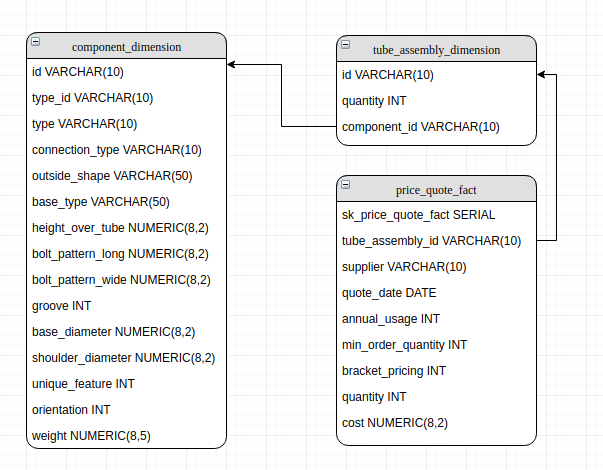
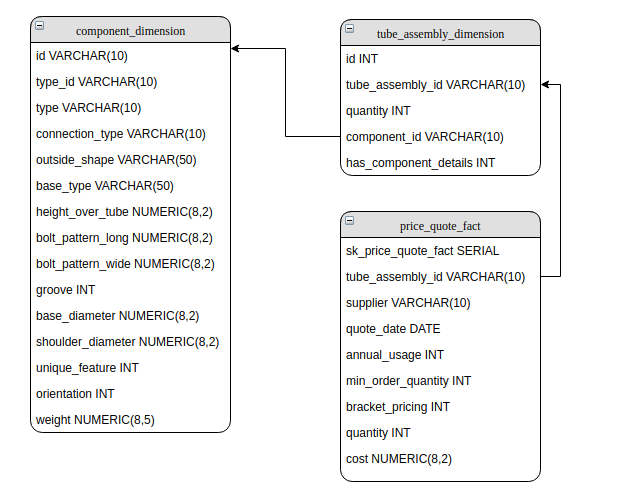
Docker | doc | fixes

Changed region(s): [[0.4478, 0.0298, 0.9254, 0.983], [0.0299, 0.0298, 0.4478, 0.9532], [0.3582, 0.9234, 0.3881, 0.9532]]

diff --git a/dw/dimension/assembly.py b/dw/dimension/assembly.py
@@ -2,10 +2,17 @@ import pandas as pd
 import os
 from definitions import ROOT_DIR
 from util.db_connection import PostgresClient
+from util.df_functions import merge_from_db
 from util.run_functions import run_to_debug
 
 
 class TubeAssembly:
+	"""
+		Reads a csv file with tube assembly info and loads to a postgres.
+		- Converts all the non NA columns into rows, making it easier to summarize the components used;
+		- Aggregates Assembly + Component to avoid duplicate rows;
+		- Checks if it exists in component_dimension (has_component_details).
+	"""
 
 	def __init__(self, source_file="bill_of_materials.csv"):
 		self.source_file = source_file
@@ -24,12 +31,14 @@ class TubeAssembly:
 			drop("order", axis=1)  # type: pd.DataFrame
 
 		df = df.dropna(subset=["component_id"])
+		df = df.groupby(['tube_assembly_id', 'component_id'])["quantity"].sum().reset_index()
 
-		df.rename(
-			columns={
-				"tube_assembly_id": "id"
-			}, inplace=True
-		)
+		df = merge_from_db(
+			df=df, schema="industry", table_name="component_dimension", column="id", left_on="component_id",
+			right_on="id", indicator=True, drop_columns="id")
+
+		df.rename(columns={"_merge": "has_component_details"}, inplace=True)
+		df["has_component_details"] = df["has_component_details"].apply(func=lambda value: 1 if value == "both" else 0)
 
 		df.to_sql(
 			schema="industry", name="tube_assembly_dimension", con=PostgresClient.get_conn_engine(),

diff --git a/main.py b/main.py
@@ -1,16 +1,32 @@
-import os
+import logging
 
 from dw.dimension.assembly import TubeAssembly
 from dw.dimension.component import Component
 from dw.fact.annual_cost import AnnualCost
 from dw.fact.price_quote import PriceQuote
+from util.db_connection import PostgresClient
 
-os.environ["USER"] = "industry_user"
-os.environ["PWD"] = "password"
-os.environ["HOST"] = "localhost"
-os.environ["PORT"] = "5432"
-os.environ["DB"] = "industry_price_quote"
+logger = logging.getLogger()
+logger.setLevel(logging.INFO)
+
+logging.info("Connection to database...")
+conn = PostgresClient.get_conn_engine().connect()
+logging.info("Cleaning tables...")
+conn.execute("TRUNCATE TABLE industry.component_dimension;")
+conn.execute("TRUNCATE TABLE industry.tube_assembly_dimension;")
+conn.execute("TRUNCATE TABLE industry.price_quote_fact;")
+conn.execute("TRUNCATE TABLE industry.annual_cost_fact;")
+
+logging.info("Loading components...")
 Component().run()
+logging.info("ok!")
+logging.info("Loading tube assembly...")
 TubeAssembly().run()
+logging.info("ok!")
+logging.info("Loading price quotes...")
 PriceQuote().run()
+logging.info("ok!")
+logging.info("Loading annual cost...")
 AnnualCost().run()
+logging.info("ok!")
+logging.info("PROCESS FINISHED!")

diff --git a/dw/dimension/component.py b/dw/dimension/component.py
@@ -4,9 +4,14 @@ from definitions import ROOT_DIR
 from util.db_connection import PostgresClient
 from util.df_functions import df_bool_to_int, transform_str_columns, transform_float_columns
 from util.run_functions import run_to_debug
+import numpy as np
 
 
 class Component:
+	"""
+		Reads a csv file with component info and loads to a postgres.
+		Just some type convertions are applied to the original data.
+	"""
 
 	def __init__(self, source_file="comp_boss.csv"):
 		self.source_file = source_file
@@ -20,6 +25,7 @@ class Component:
 			}, inplace=True
 		)
 
+		df["connection_type_id"] = df["connection_type_id"].replace(to_replace="9999", value=np.nan)
 		df = transform_str_columns(df, upper=True, fillna_value="N/A")
 		df = transform_float_columns(df, fillna_value=0)
 		df = df_bool_to_int(df, ["groove", "unique_feature", "orientation"])

diff --git a/util/df_functions.py b/util/df_functions.py
@@ -50,10 +50,10 @@ def clean_str_values(
 	return df
 
 
-def merge_from_db(df, schema, table_name, column, left_on, right_on, drop_columns=None):
+def merge_from_db(df: pd.DataFrame, schema, table_name, column, left_on, right_on, drop_columns=None, indicator=False):
 	component_df = pd.read_sql(
 		sql="SELECT {columns} FROM {schema}.{table_name}".format(
-			columns=column + "," + right_on,
+			columns=",".join(set([column] + [right_on])),
 			schema=schema,
 			table_name=table_name
 		),
@@ -67,7 +67,8 @@ def merge_from_db(df, schema, table_name, column, left_on, right_on, drop_column
 		how="left",
 		left_on=left_on,
 		right_on=right_on,
-		validate="many_to_one"
+		suffixes=('', '_y'),
+		indicator=indicator
 	)
 
 	if old_size != len(df):

diff --git a/dw/fact/annual_cost.py b/dw/fact/annual_cost.py
@@ -7,6 +7,11 @@ from util.run_functions import run_to_debug
 
 
 class AnnualCost:
+	"""
+		Sample of a different fact table.
+		Reads a csv file with the price quotes info and loads to a postgres, calculating the ammount to buy and
+		the cost based on annual usage.
+	"""
 
 	def __init__(self, source_file="price_quote.csv"):
 		self.source_file = source_file

diff --git a/dw/fact/price_quote.py b/dw/fact/price_quote.py
@@ -7,6 +7,10 @@ from util.run_functions import run_to_debug
 
 
 class PriceQuote:
+	"""
+		Reads a csv file with the price quotes info and loads to a postgres.
+		Just some type convertions are applied to the original data.
+	"""
 
 	def __init__(self, source_file="price_quote.csv"):
 		self.source_file = source_file

diff --git a/README.ptbr.md b/README.ptbr.md
@@ -1,29 +1,52 @@
-## Industry Price Quote Model
+## Modelo de preços de indústria
 
-Esse projeto carrega dados csv para uma base postgres limpando e organizando os dados.
+Esse projeto limpa e carrega alguns arquivos texto (csv) para um banco de dados postgres.
 
-*Leia em outros idiomas: [Inglês](README.md), [Português do Brasil](README.ptbr.md)
+*Leia em outros idiomas: [Inglês](README.md).*
 
-### Instalação (somente para dev):
+### Instalação (somente para desenvolvimento):
 
-1) Crie um virtualenv com python 3.5;
-1) Adicione os arquivos .csv no diretório 'data'
-1) Instale os requerimentos:
+1) Crie uma virtualenv com python 3.5;
+1) Adicione os arquivos .csv na pasta 'data';
+1) Instale o arquivo de requerimentos: \
+_Importante: Execute os comandos a seguir dentro do diretório do projeto !_
 ```
 pip install -r requirements.txt
 ```
 
 ### Executando:
-
-1) Inicie o banco postgres de amostra em docker:
+ 
+1) Inicie um banco postgres com docker e todas as tabelas já criadas (em branco);
+1) Inicie o processo python (não esqueça de checar se os arquivos csv estão na pasta correta) \
+_Importante: Execute os comandos a seguir dentro do diretório do projeto !_
 ```
 make dev-up
+make run
 ```
 
-### Diretórios do projeto
+### Árvores de diretórios do projeto:
 
-- data: Contém os arquivos .csv de origem;
-- db: Contém o modelo do banco de dados postgres;
-- dw/: ETL para as tabelas do data warehouse
+- data/: Arquivos csv de origem;
+- db/: Modelo do banco de dados e configuração de docker para ele;
+- dw/: ETL para as tabelas do data warehouse;
 - util/: Outras funções;
 
+### Modelo do BD:
+
+- component_dimension: 
+	- Contém todos os dados de comp_boss.csv. Todas as colunas boolean for convertidas para 1 ou 0;
+	- Todos os valores N/A foram padronizados;
+	- Todas as string ficaram com letras maiúsculas;
+- tube_assembly_dimension:
+	- Contém os dados de bill_of_materials;
+	- Colunas foram 'tombadas' (unpivot) para remover valores nulos e simplificar futuras agregações;
+- price_quote:
+	- Contém dados de price quote;
+	- Tem uma outra tabela chamada 'annual_cost' que aplica os cálculos de custo anual.
+	
+### To do / A Fazer:
+Essa seção contém possíveis melhorias para esse projeto:
+- Adicionar um framework para controlar o fluxo (e.g: luigi, apache airflow);
+- Criar testes de unidade e de integração;
+- Criar scripts de CD (entrega contínua) para construir e implantar a imagem docker no docker hub;
+- Automatizar deploy em caso de múltiplas execuções.

diff --git a/README.md b/README.md
@@ -3,22 +3,26 @@
 This project cleans and loads a couple of text (csv) 
 files to a postgres database.
 
-*Read this in other languages: [English](README.md), [Portuguese Brazil](README.ptbr.md)
+*Read this in other languages: [Brazilian Portuguese](README.ptbr.md).*
 
 ### Installation (dev only):
 
 1) Create a virtualenv with python 3.5;
 1) Add the .csv files to the 'data' directory;
 1) Install requirements:
+_Important: Run the following on the project directory!_
 ```
 pip install -r requirements.txt
 ```
 
 ### Executing:
-
-1) Start the sample docker postgres database :
+ 
+1) Start a docker postgres with all the tables create (but empty);
+1) Start the python process (don't forget to check if the data folder has all csv files) \
+_Important: Run the following on the project directory!_
 ```
 make dev-up
+make run
 ```
 
 ### Projects directory tree:
@@ -27,3 +31,23 @@ make dev-up
 - db/: Database design and docker configuration;
 - dw/: ETL for data warehouse tables;
 - util/: Other util functions;
+
+### DB Model:
+
+- component_dimension: 
+	- Contain all the data from comp_boss.csv. All boolean colums converted to 1 or 0;
+	- All N/A values were kept with the same string;
+	- All strings are upper cased;
+- tube_assembly_dimension:
+	- Contains bill_of_materials info;
+	- Columns were unpivoted to remove N/A values and simplify future aggregations;
+- price_quote:
+	- Contain price quote info;
+	- Has another bonus/sample table 'annual_cost', applying the cost calculation.
+	
+### To do:
+This section contains possible improvements to this project:
+- Add to a pipeline framework (e.g: luigi, apache airflow);
+- Create unit and integrated tests;
+- Create CD scripts to build and push the docker image to docker hub;
+- Automated deploy in case of multiple executions;
